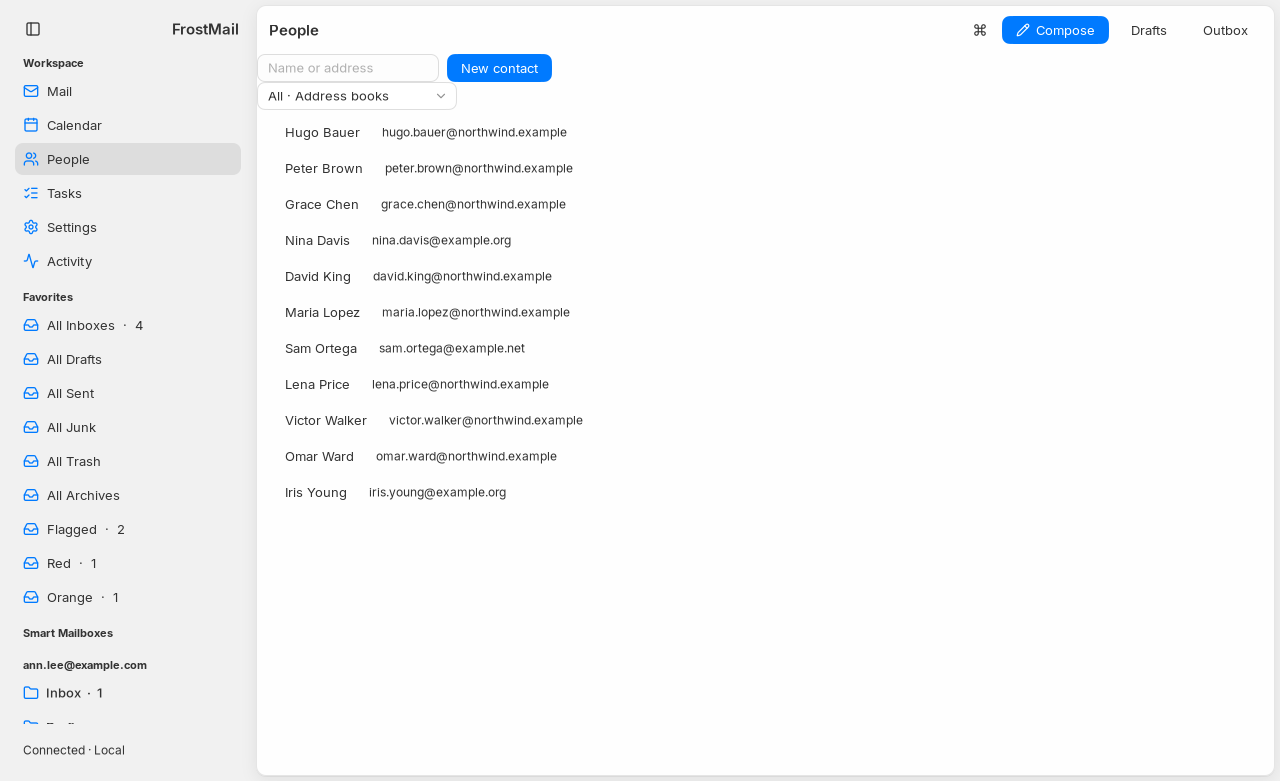
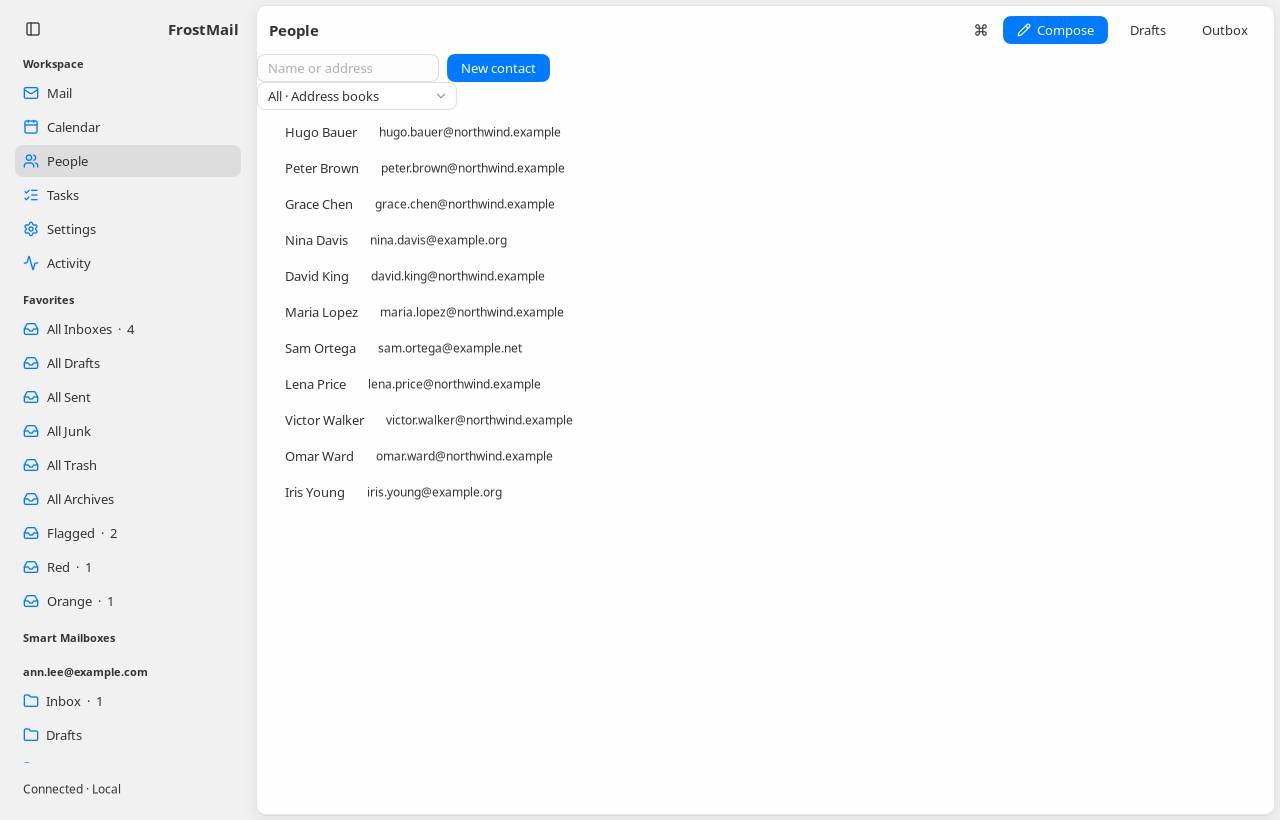
fix(nsgo): keep the live suite's windows on Xvfb
`make nsgo-live` unset WAYLAND_DISPLAY and ran under xvfb-run, but GTK
tries Wayland first and still finds a desktop's compositor at the default
socket, wayland-0. On a Wayland desktop the test windows opened on that
desktop, and the first kept pictures were taken there: 781 high (the
window less its title bar) and in the desktop's font.

- NSGO_LIVE sets GDK_BACKEND=x11 and XDG_SESSION_TYPE=x11.
- A GTK settings file under testdata/xdg stops the caret's blinking, which
  is in one picture and not in the next.
- The 14 kept pictures are taken again on Xvfb's X11: 1280 by 820 and 620
  by 820.

The 2 workflows that skip on a target fail the same way on Xvfb's X11
(frostyard/frostmail#391, #392). A runner has no compositor, so CI's runs
were on Xvfb throughout. Frostnotes' live suite found the fault.

diff --git a/docs/design/testing.md b/docs/design/testing.md
@@ -29,20 +29,30 @@ The shared client has one suite, run two ways
   under `xvfb-run`, each test in a process of its own, in a GTK 4 window
   with WebKitGTK for the message's page. It needs the `xvfb` package, GTK 4
   and WebKitGTK 6. The target has no `-tags` flag, so the Makefile passes
-  the tag in `GOFLAGS`; it unsets `WAYLAND_DISPLAY` so that GTK takes
-  Xvfb's X11. On a target the tests' working directory is under
+  the tag in `GOFLAGS`. It sets `GDK_BACKEND=x11`, which is what keeps the
+  windows on Xvfb: GTK tries Wayland first, and with `WAYLAND_DISPLAY`
+  unset it still finds a desktop's compositor at the default socket,
+  `wayland-0`. Until 2026-11-24 the Makefile only unset the variable, so on
+  a Wayland desktop the windows opened on that desktop, with its GTK
+  settings and its title bar; a runner has no compositor, so CI's runs were
+  on Xvfb throughout. GTK also reads `testdata/xdg`'s settings, which stop
+  the caret's blinking. On a target the tests' working directory is under
   `cmd/frostmail-nsgo/.nsgo/`, so they find the repository with
   `repoRoot`. Pictures go to `cmd/frostmail-nsgo/.nsgo/test/screenshots/linux`,
   which git ignores; CI uploads them as `nsgo-live-pictures`.
 - **The kept pictures,** `cmd/frostmail-nsgo/comparison/linux`: 14 PNGs of
   the main views (the list, a message, its actions menu, a confirmation,
   the To-Do Bar, a conversation, compose, the five modules, and the narrow
-  list and message), 1280 by 781 and 620 by 781: 39 less in height than
-  the window the tests ask for. `make nsgo-pictures` takes them again. A change of
+  list and message), 1280 by 820 and 620 by 820, taken on Xvfb's X11.
+  (The first set, of 2026-11-24, was 781 high and in the desktop's font:
+  it was taken on a Wayland desktop, as above.) `make nsgo-pictures` takes
+  them again. A change of
   the look commits its changed pictures. No test compares pixels: the
   fixture's dates follow the day it is generated, so the list's dates and
   the Calendar differ from day to day, and fonts differ between hosts.
-- **Skipped on a target** (`headlessOnly`), seen under Xvfb on 2026-11-24:
+- **Skipped on a target** (`headlessOnly`). Both fail the same way on
+  Xvfb's X11 (2026-11-24, with `GDK_BACKEND=x11`) and, before that, on a
+  Wayland desktop, where the trials below were made:
   - `TestMessageRowQuickActions` (frostyard/frostmail#391): with the pointer over a message row, no
     quick action shows; the row's `OnMouseEnter` is never called. The same
     pointer shows a toolbar button's hover fill and tooltip, and a view of

diff --git a/docs/plans/0016-a-shared-look-for-the-nsgo-apps.md b/docs/plans/0016-a-shared-look-for-the-nsgo-apps.md
@@ -311,6 +311,11 @@ pictures.
     not looked into. Phase 3 rebuilds these rows: its 3b is not done while
     either skips.
   - The tests assumed their working directory; on a target it is another.
+  - Unsetting `WAYLAND_DISPLAY` does not keep GTK on Xvfb: on a Wayland
+    desktop the windows of the first runs opened on that desktop, and the
+    first kept pictures were taken there. Frostnotes' part found it. The
+    Makefile now sets `GDK_BACKEND=x11`, the pictures were taken again on
+    Xvfb's X11, and the 2 failures above were seen there too.
   - The fixture's dates follow the day, so the pictures of the list and
     the Calendar change from day to day.
   Not built: bounds checks, which wait for the standard's measures
